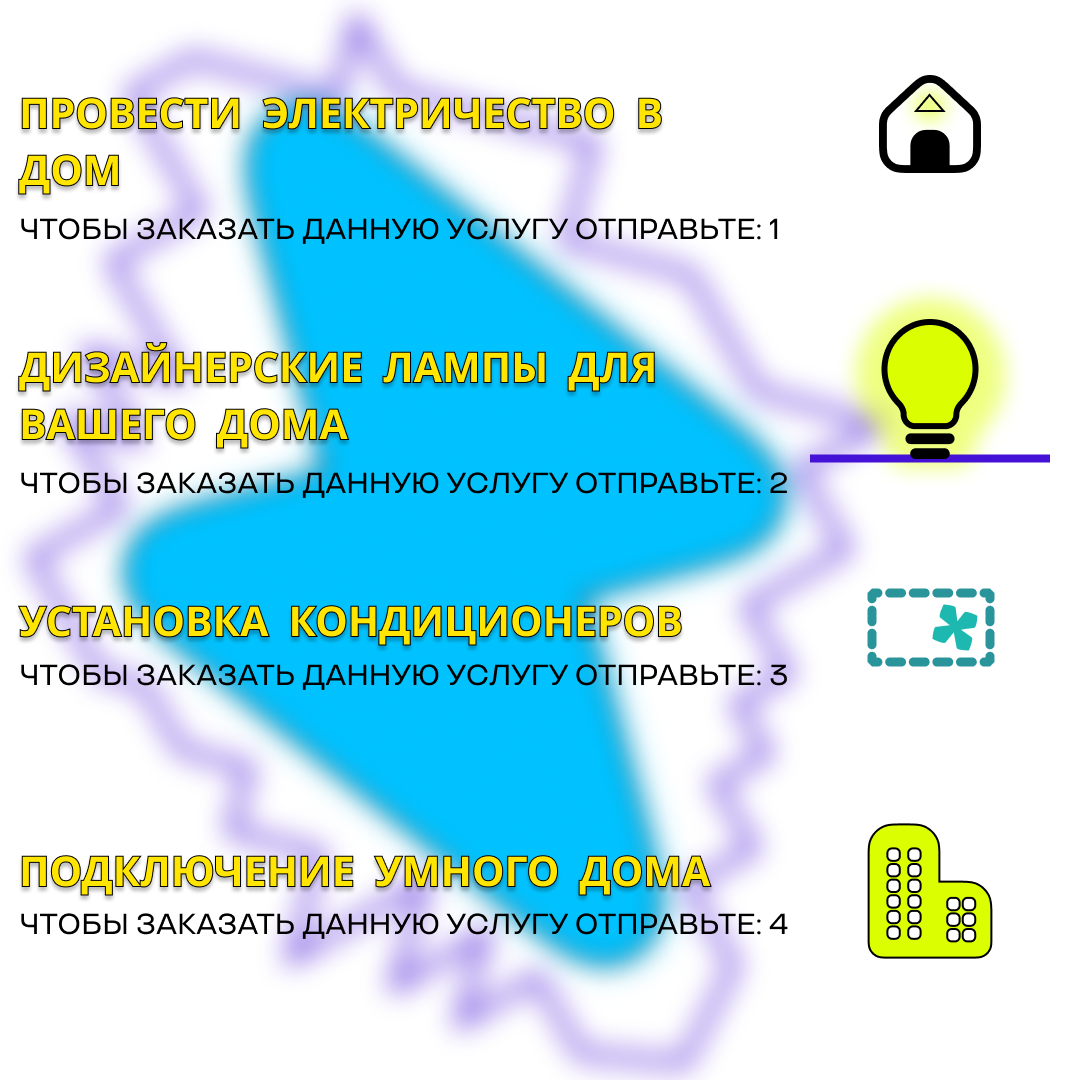
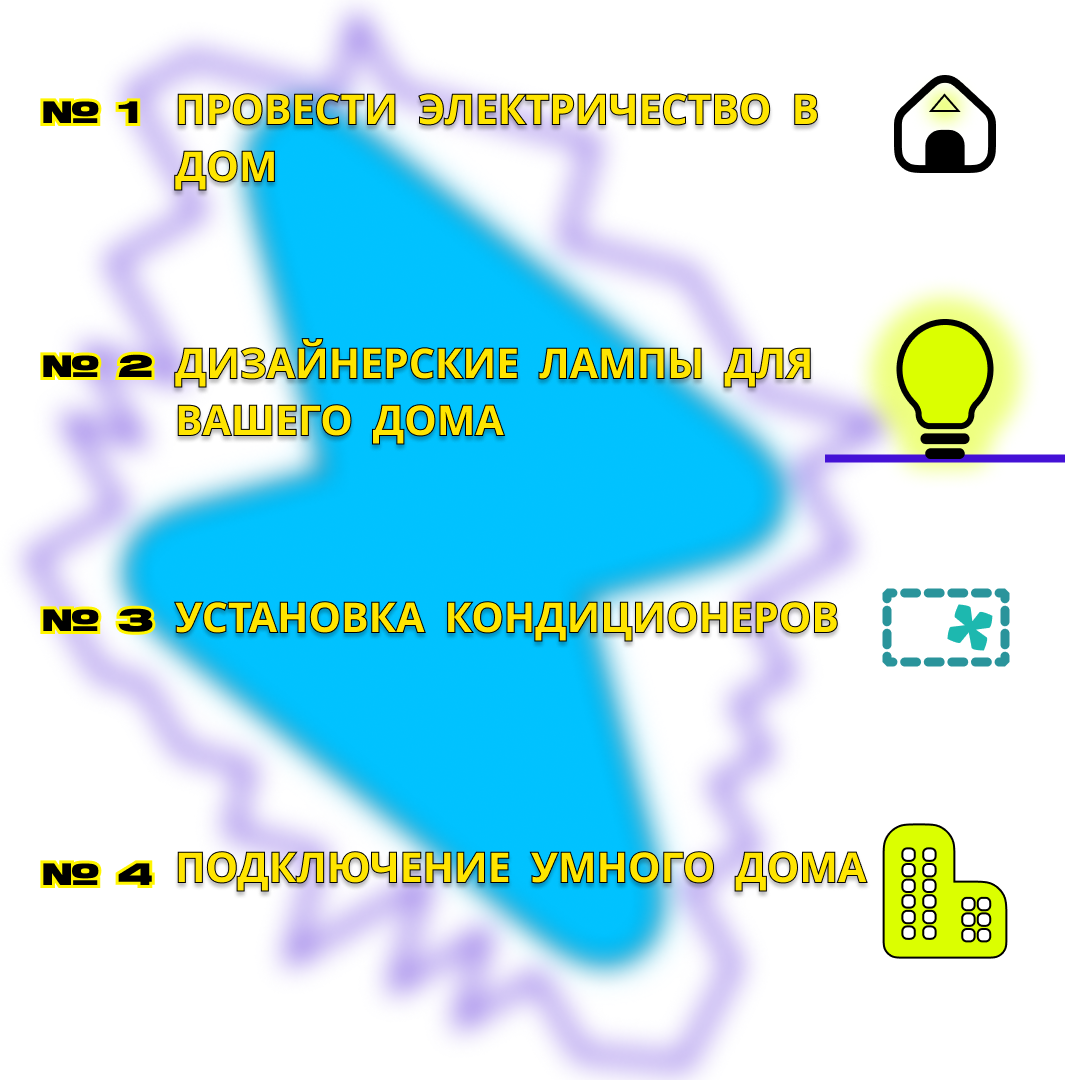
перехват ошибок и новый чек лист по услугам

diff --git a/experiments.py b/experiments.py
@@ -1,5 +1,5 @@
 import time
-
+from workWithDB import get_peregovorki
 month = int(time.strftime('%m', time.localtime()))
 year = int(time.strftime('%Y', time.localtime()))
 digit = int(time.strftime('%d', time.localtime()))
@@ -23,20 +23,23 @@ def sendler_notification_salary(list):
 
 
 def sendler_notification_peregovorka(list):
-    month = int(time.strftime('%m', time.localtime()))
-    year = int(time.strftime('%Y', time.localtime()))
-    digit = int(time.strftime('%d', time.localtime()))
-    a = []
-    for i in list:
-        date = list[i][3].split(".")
-        if int(date[2]) == year:
-            if month == int(date[1]) or month - int(date[1]) == -1:
-                if int(date[0]) - digit == 3 or int(date[0]) - digit == 10 or int(date[0]) - digit == 0 or (
-                        month - int(date[1]) == -1 and (
-                        (int(date[0]) == 7 and digit == 27) or (int(date[0]) == 3 and (digit == 30 or digit == 31)))):
-                    id = list[i][0]
-                    a.append(id)
-    return a
+    try:
+        month = int(time.strftime('%m', time.localtime()))
+        year = int(time.strftime('%Y', time.localtime()))
+        digit = int(time.strftime('%d', time.localtime()))
+        a = []
+        for i in list:
+            date = list[i][3].split(".")
+            if int(date[2]) == year:
+                if month == int(date[1]) or month - int(date[1]) == -1:
+                    if int(date[0]) - digit == 3 or int(date[0]) - digit == 10 or int(date[0]) - digit == 0 or (
+                            month - int(date[1]) == -1 and (
+                            (int(date[0]) == 7 and digit == 27) or (int(date[0]) == 3 and (digit == 30 or digit == 31)))):
+                        id = list[i][0]
+                        a.append(id)
+        return a
+    except:
+        print("отправитель уведомлений о переговорках не работает")
 
 
 def sendler_notification_holiday(list):

diff --git a/workWithDB.py b/workWithDB.py
@@ -168,8 +168,7 @@ def check_peregovorki(stroka, listik):
                     return True
         return True
     except:
-        return "Error"
-
+        print("Error in check peregovorki")
 
 
 
